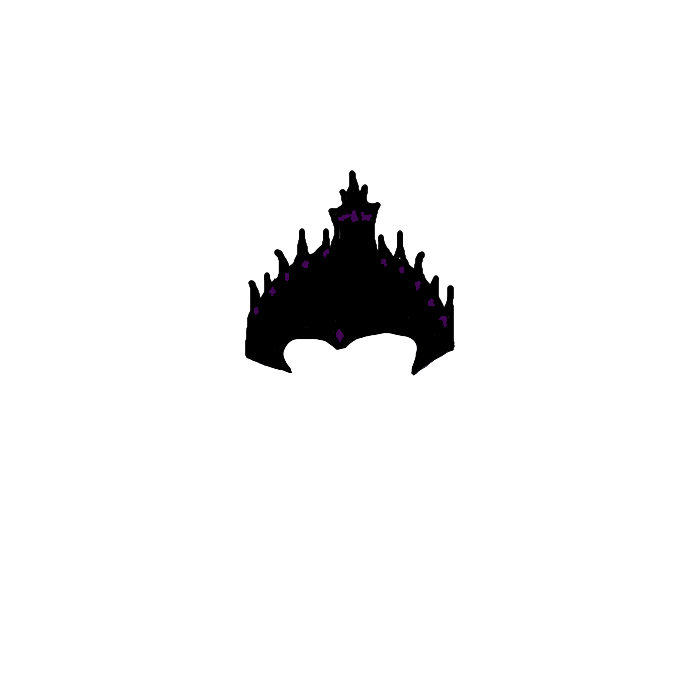
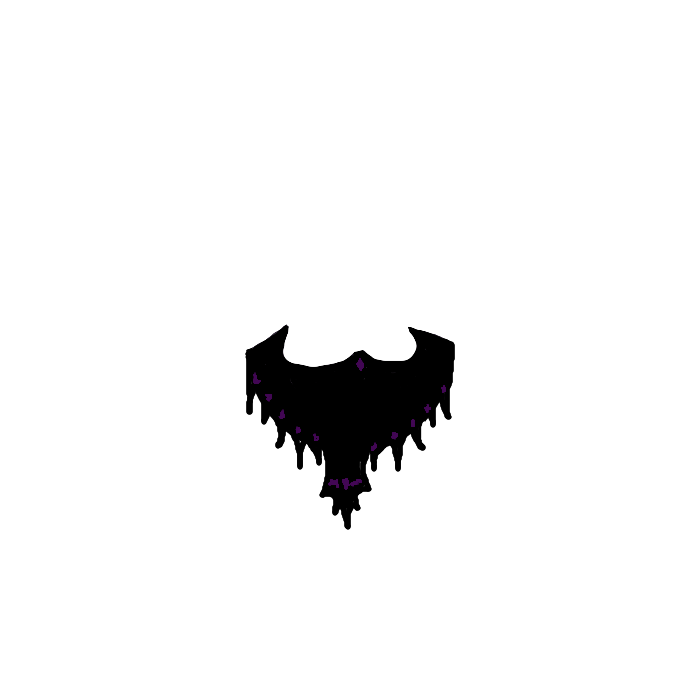
wave 7 doable

Changed region(s): [[0.33, 0.24, 0.66, 0.75]]

diff --git a/lib/bullets/devil_tooth.py b/lib/bullets/devil_tooth.py
@@ -4,7 +4,7 @@ from . import DefaultBullet
 
 class   DevilTooth(DefaultBullet):
     rapidity = 46
-    attack=15
+    attack=20
     from_player = True
     name = "devil_tooth"
 
@@ -29,11 +29,11 @@ class   DevilTooth(DefaultBullet):
             if self.style == 1:
                 self.tools.move(self, self.direction)
             elif self.style == 0:
-                self.tools.move(self, self.direction, int(self.rapidity * 0.85))
-                self.tools.move(self, (self.direction + 1) % 8, int(self.rapidity * 0.15), False)
+                self.tools.move(self, self.direction, int(self.rapidity * 0.8))
+                self.tools.move(self, (self.direction + 1) % 8, int(self.rapidity * 0.2), False)
             elif self.style == 2:
-                self.tools.move(self, self.direction, int(self.rapidity * 0.85))
-                self.tools.move(self, (self.direction + 7) % 8, int(self.rapidity * 0.15), False)
+                self.tools.move(self, self.direction, int(self.rapidity * 0.8))
+                self.tools.move(self, (self.direction + 7) % 8, int(self.rapidity * 0.2), False)
             if self._limits_reached():
                 return self._dead()
             self.hitbox.update_coords(self)

diff --git a/lib/monsters/kraken.py b/lib/monsters/kraken.py
@@ -11,7 +11,7 @@ from . import Vortex
 class Kraken(DefaultMonster):
     name = "kraken"
     name_nyx = "nyx"
-    lives = 600
+    lives = 400
     lives_nyx = 700
     #500 300 700
     # + 3 necromancer spawns
@@ -62,13 +62,13 @@ class Kraken(DefaultMonster):
         self.next_enlargement()
 
     def _next_spell(self):
-        self.spell = randint(400, 630)
+        self.spell = randint(420, 640)
 
     def _next_spell_nyx(self):
         self.spell = randint(105, 170)
 
     def spawning(self):
-        spawned = randint(5, 7)
+        spawned = randint(4, 6)
         self.env.mod.tools.spawn(self.env, self.env.mod.monsters.Piranha, spawned)
 
     def sporing(self):
@@ -76,7 +76,7 @@ class Kraken(DefaultMonster):
             tentacles_header.spore_popping()
 
     def next_enlargement(self):
-        self.expand = randint(100, 230)
+        self.expand = randint(400, 490)
 
     def growing(self):
         for tentacles_header in self.tentacles_headers:

diff --git a/lib/waves/configuration.py b/lib/waves/configuration.py
@@ -1,4 +1,6 @@
 from random import randint
+#
+#
 
 class   DefaultWave:
     def random(self, i):
@@ -135,15 +137,15 @@ class   Wave6(DefaultWave):
 class   Wave7(DefaultWave):
     def _more_monsters(self):
         self.more = True
-        self.times = [90, 260, 220, 1480, 333, 2300]
+        self.times = [90, 290, 245, 1480, 350, 2300]
         self.nb = [2, 1, 1, 1, 2, 1]
         self.next = [self.next[0], self.next[1], self.next[2], self.random(3), self.random(4) // 2, self.random(5) // 2]
 
     def __init__(self, env):
         self.title = env.mod.tools.load_img(env, 'waves/wave_7', env.height, env.height)
         self.more = False
-        self.times = [58, 170, 105]
-        self.nb = [3, 1, 1]
+        self.times = [58, 220, 155]
+        self.nb = [2, 1, 1]
         self.next = [0, 0, self.random(2)]
         env.background = env.background_shadows
         self.objective = env.mod.tools.spawn_boss(env, env.mod.monsters.Kraken)

diff --git a/lib/players/player.py b/lib/players/player.py
@@ -20,8 +20,8 @@ class Player:
     def _get_weapon(self, env):
         if self.name == 'jack':
 #            return env.mod.weapons.Crossbow(env, self)
-#            return env.mod.weapons.Aguni(env, self)
-            return env.mod.weapons.Abaddon(env, self)
+            return env.mod.weapons.Aguni(env, self)
+#            return env.mod.weapons.Abaddon(env, self)
         if self.name == 'baltazar':
             return env.mod.weapons.SubmachineGun(env, self)
 

diff --git a/lib/weapons/aguni.py b/lib/weapons/aguni.py
@@ -10,7 +10,7 @@ class   Aguni(DefaultWeapon):
         self.player = player
         self.dimensions = player.dimensions
 
-        self.delay = 8
+        self.delay = 13
         self.cooldown = 0
         self.fury = 0
         self.player_lives = player.lives

diff --git a/lib/monsters/tentacle.py b/lib/monsters/tentacle.py
@@ -45,7 +45,7 @@ class Tentacle(DefaultMonster):
         self.test.rapidity += identity
 
     def loading(self):
-        self.sporing = randint(50, 95)
+        self.sporing = randint(75, 115)
 
     def hitted(self, attack=1):
         if self.lives:

diff --git a/lib/monsters/base_tentacles.py b/lib/monsters/base_tentacles.py
@@ -14,8 +14,7 @@ class BaseTentacles:
         self.update()
 
         self.tentacles = []
-        for i in range(0, 6):
-            self.growing()
+        self.growing()
 
     def mood(self, i):
         self.tentacles.clear()

diff --git a/lib/weapons/abaddon.py b/lib/weapons/abaddon.py
@@ -3,8 +3,8 @@ from threading import Thread
 
 class   Abaddon(DefaultWeapon):
     first = 16
-    second = 23
-    third = 27
+    second = 25
+    third = 30
     big = 56
     explodes = 72
 

diff --git a/lib/bullets/tooth.py b/lib/bullets/tooth.py
@@ -4,7 +4,7 @@ from . import DefaultBullet
 
 class   Tooth(DefaultBullet):
     rapidity = 42
-    attack=15
+    attack=20
     from_player = True
     name = "tooth"
 
